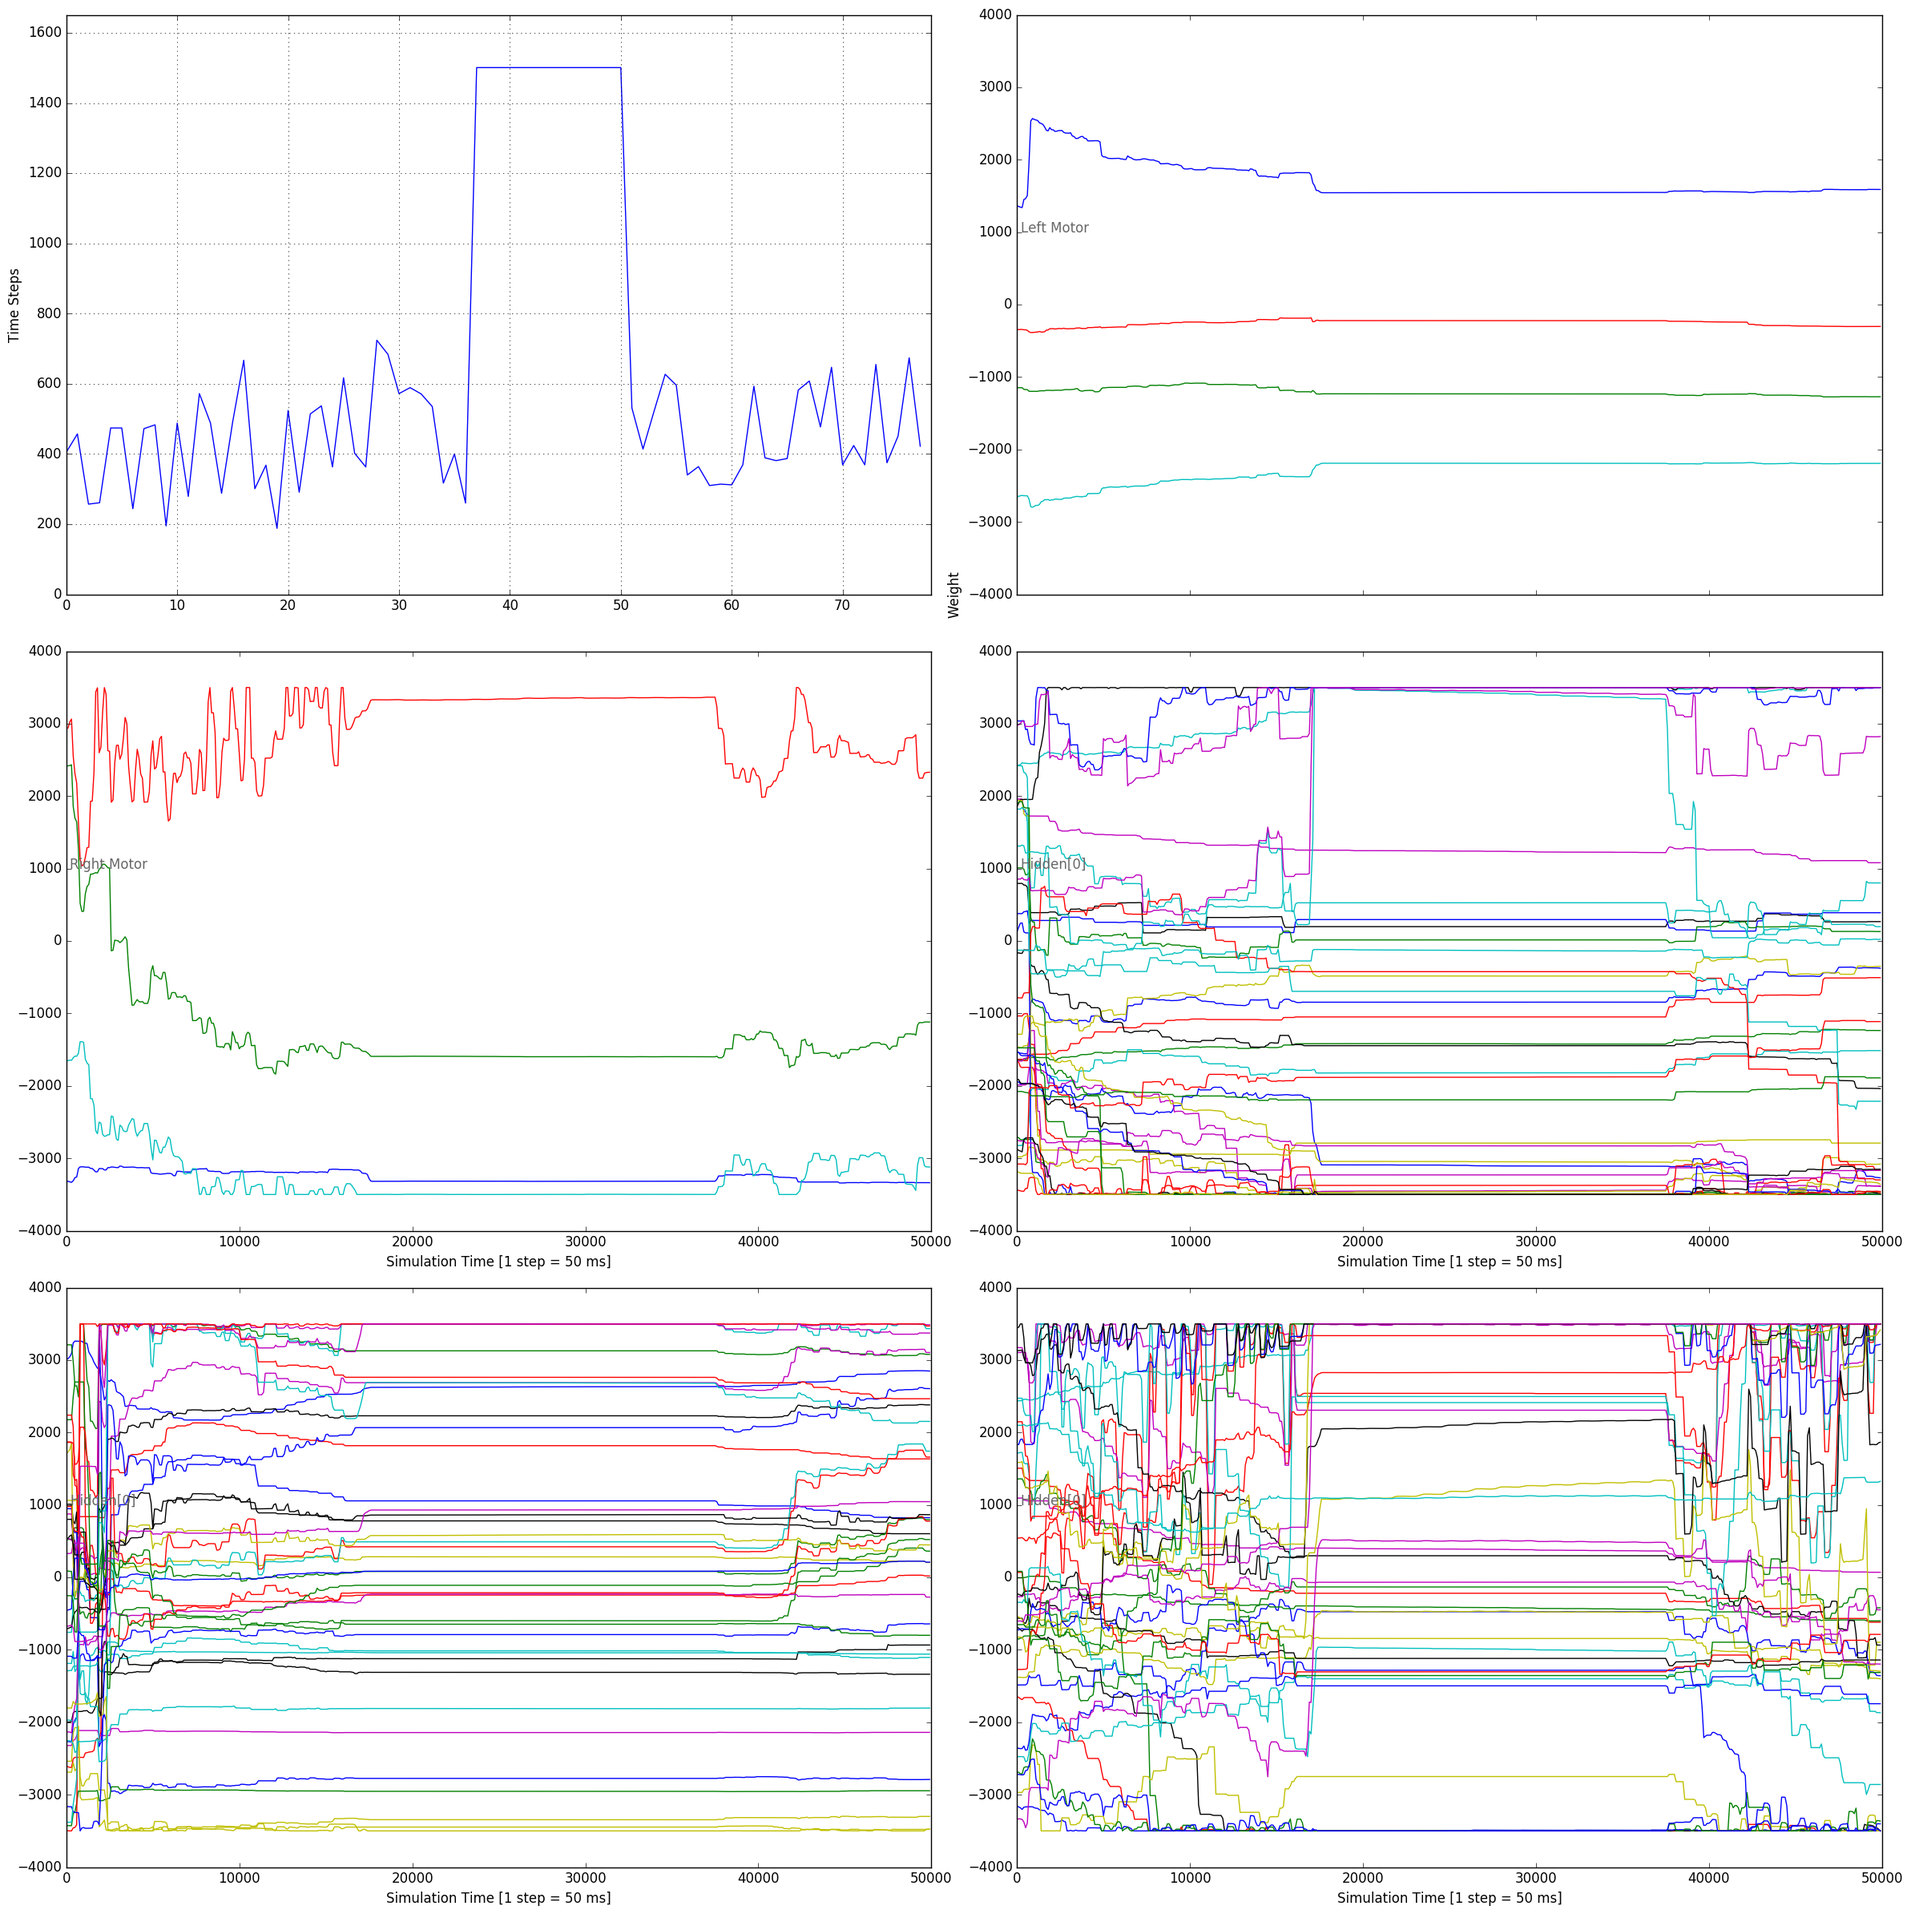
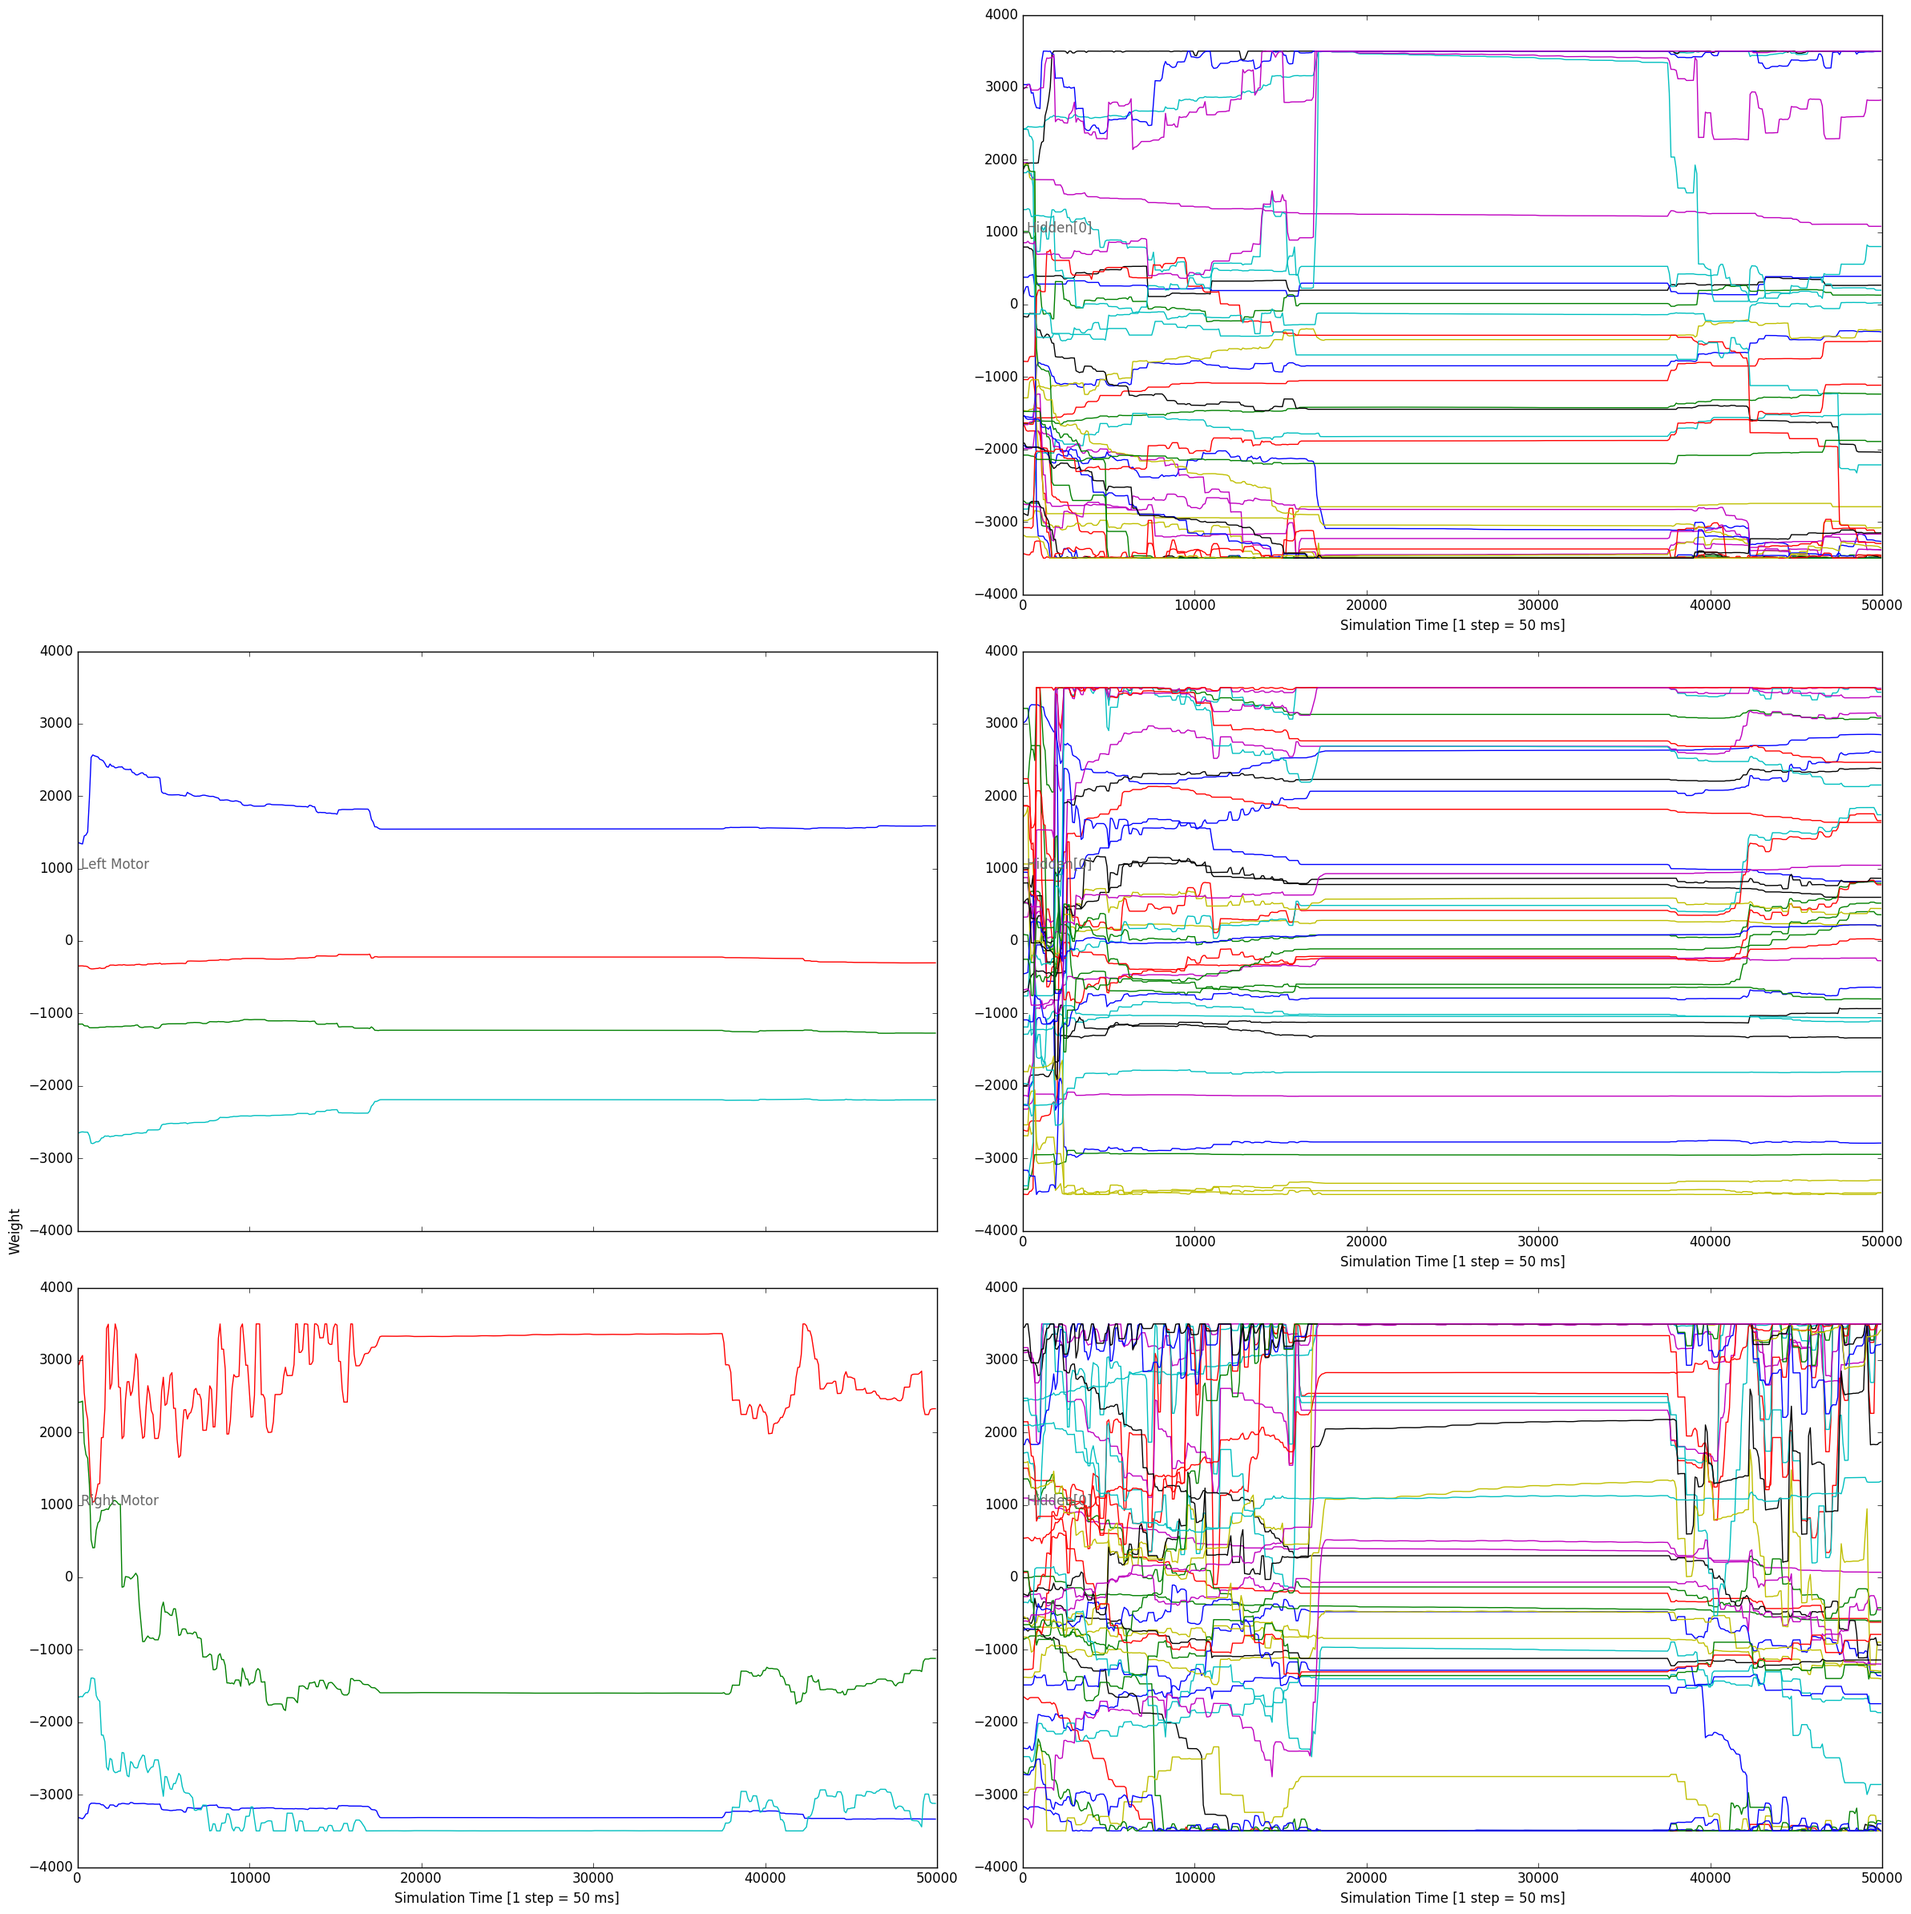
Changed plotting scripts

diff --git a/Controller/plot_rstdp_weights_over_time.py b/Controller/plot_rstdp_weights_over_time.py
@@ -1,0 +1,56 @@
+#!/usr/bin/env python
+
+import numpy as np
+import h5py
+from environment import *
+from parameters import *
+import matplotlib.pyplot as plt
+from matplotlib import gridspec
+
+env = VrepEnvironment()
+
+h5f = h5py.File(path + '/rstdp_data.h5', 'r')
+
+w_l = np.array(h5f['w_l'], dtype=float)
+w_r = np.array(h5f['w_r'], dtype=float)
+w_h = np.array(h5f['w_h'], dtype = float)
+w_i = np.array(h5f['w_i'], dtype=float)
+
+def plt_subplot_output(index, text, weights):
+	ax = plt.subplot(index)
+	ax.set_ylabel('Weight', position=(0.,0.))
+	ax.set_xticklabels([])
+	ax.text(200, 1000, text, color='0.4')
+	ax.tick_params(axis='both', which='both', direction='in', bottom=True, top=True, left=True, right=True)
+	ax.set_xlabel('Simulation Time [1 step = 50 ms]')
+	for i in range(weights.shape[1]):
+			plt.plot(w_i, weights[:,i])
+	return ax
+
+def plt_subplot_hidden(index, text, weights, hidden_index, sharey):
+	ax = plt.subplot(index, sharey=sharey)
+	ax.set_ylabel('Weight', position=(0.,0.))
+	ax.text(200, 1000, text, color='0.4')
+	ax.set_xticklabels([])
+	ax.set_xlabel('Simulation Time [1 step = 50 ms]')
+	ax.tick_params(axis='both', which='both', direction='in', bottom=True, top=True, left=True, right=True)
+	for i in range(weights.shape[2]):
+		for j in range(weights.shape[3]):
+			plt.plot(w_i, weights[:,hidden_index,i,j])
+	return ax
+
+fig = plt.figure(figsize=(24,24))
+
+ax1 = plt_subplot_output(321, 'w_l', w_l)
+ax2 = plt_subplot_output(322, 'w_r', w_r)
+ax3 = plt_subplot_hidden(323, 'w_h[0]', w_h, 0, ax1)
+ax4 = plt_subplot_hidden(324, 'w_h[1]', w_h, 1, ax1)
+ax5 = plt_subplot_hidden(325, 'w_h[2]', w_h, 2, ax1)
+ax6 = plt_subplot_hidden(326, 'w_h[3]', w_h, 3, ax1)
+
+fig.tight_layout()
+
+filename = "maze_" + session + "_training_weights_over_time.png"
+filepath = "../plots/" + filename
+plt.savefig(filepath, bbox_inches='tight')
+plt.show(filepath)

diff --git a/Controller/parameters.py b/Controller/parameters.py
@@ -31,13 +31,13 @@ max_poisson_freq = 300              # Maximum Poisson firing frequency for n_max
 max_spikes = 15.                    # number of events during each step for maximum poisson frequency
 
 # R-STDP parameters
-w_min = -3500.                      # Minimum weight value
 w_max = 3500.                       # Maximum weight value
-w0_min = w_min/7                      # Minimum initial random value
+w_min = -w_max                      # Minimum weight value
 w0_max = w_max/7                      # Maximum initial random value
+w0_min = -w0_max                      # Minimum initial random value
 tau_n = 200.                        # Time constant of reward signal
 tau_c = 1000.                       # Time constant of eligibility trace
-reward_factor = 0.000025             # Reward factor modulating reward signal strength
+reward_factor = 0.00025             # Reward factor modulating reward signal strength
 A_plus = 1.                         # Constant scaling strength of potentiaion
 A_minus = 1.                        # Constant scaling strength of depression
 

diff --git a/Controller/plot_rstdp_time_steps.py b/Controller/plot_rstdp_time_steps.py
@@ -17,29 +17,19 @@ steps = np.array(h5f['steps'], dtype = float)
 xlim1 = steps.size
 ylim1 = steps.max(axis=0)*1.1
 
-# xlim2 = terminate_positions.size
-# ylim2 = terminate_positions.max(axis=0)*1.1
-
-fig = plt.figure(figsize=(7,12))
+fig = plt.figure(figsize=(10,10))
 
 ax1 = plt.subplot(111)
 ax1.set_ylabel('Time Steps')
+ax1.set_xlabel('Episode')
 ax1.set_xlim((0,xlim1))
 ax1.set_ylim((0, ylim1))
 plt.grid(linestyle=':')
 plt.plot(steps, linewidth=1.0)
 
-# ax2 = plt.subplot(212, sharex=ax1)
-# ax2.set_xlabel('Episode')
-# ax2.set_ylabel('terminate_positions')
-# ax2.set_xlim((0,xlim1))
-# ax2.set_ylim((0, ylim2))
-# plt.grid(linestyle=':')
-# plt.plot(terminate_positions, linewidth=1.0)
-
 fig.tight_layout()
 
-filename = "maze_" + session + "_training.png"
+filename = "maze_" + session + "_time_steps.png"
 filepath = "../plots/" + filename
 plt.savefig(filepath, bbox_inches='tight')
 plt.show(filepath)

diff --git a/Controller/training.py b/Controller/training.py
@@ -54,8 +54,8 @@ for i in range(p.training_length):
     #         print "weight_hidden[", j,"]: \n", w_h[j]
     #     print "--------------------------------"
 
-    # Save weights every 100 simulation steps
-    if i % 100 == 0:
+    # Save weights every 10 simulation steps
+    if i % 10 == 0:
         weights_l.append(w_l)
         weights_r.append(w_r)
         weights_hidden.append(w_h)

diff --git a/Controller/plot_rstdp_weights.py b/Controller/plot_rstdp_weights.py
@@ -19,7 +19,7 @@ for weight in w_h:
 	weights_h.append(np.flipud(weight[-1].T))
 # print weights_l.shape
 
-fig = plt.figure(figsize=(params.resolution[0]*6,params.resolution[1]*6))
+fig = plt.figure(figsize=(params.resolution[0]*3,params.resolution[1]*3))
 
 def plt_subplot(index, title, weights):
 	ax = plt.subplot(index)

diff --git a/todo.md b/todo.md
@@ -7,10 +7,12 @@
   - w0_min
   - w0_max
   - reward_factor
-- New maze form so that the snake makes a right and a left circle in on direction and a left and then a right circle in the other; the testing case is to travel the whole maze
+  - w_min
+  - w_max
 - Code rework + comments
   - Change 'from parameters import \*' to 'import parameters as params'
 - Decaying reward_factor
+- Plot steps in negative and positive direction
 
 # Questions
 - Turning model
